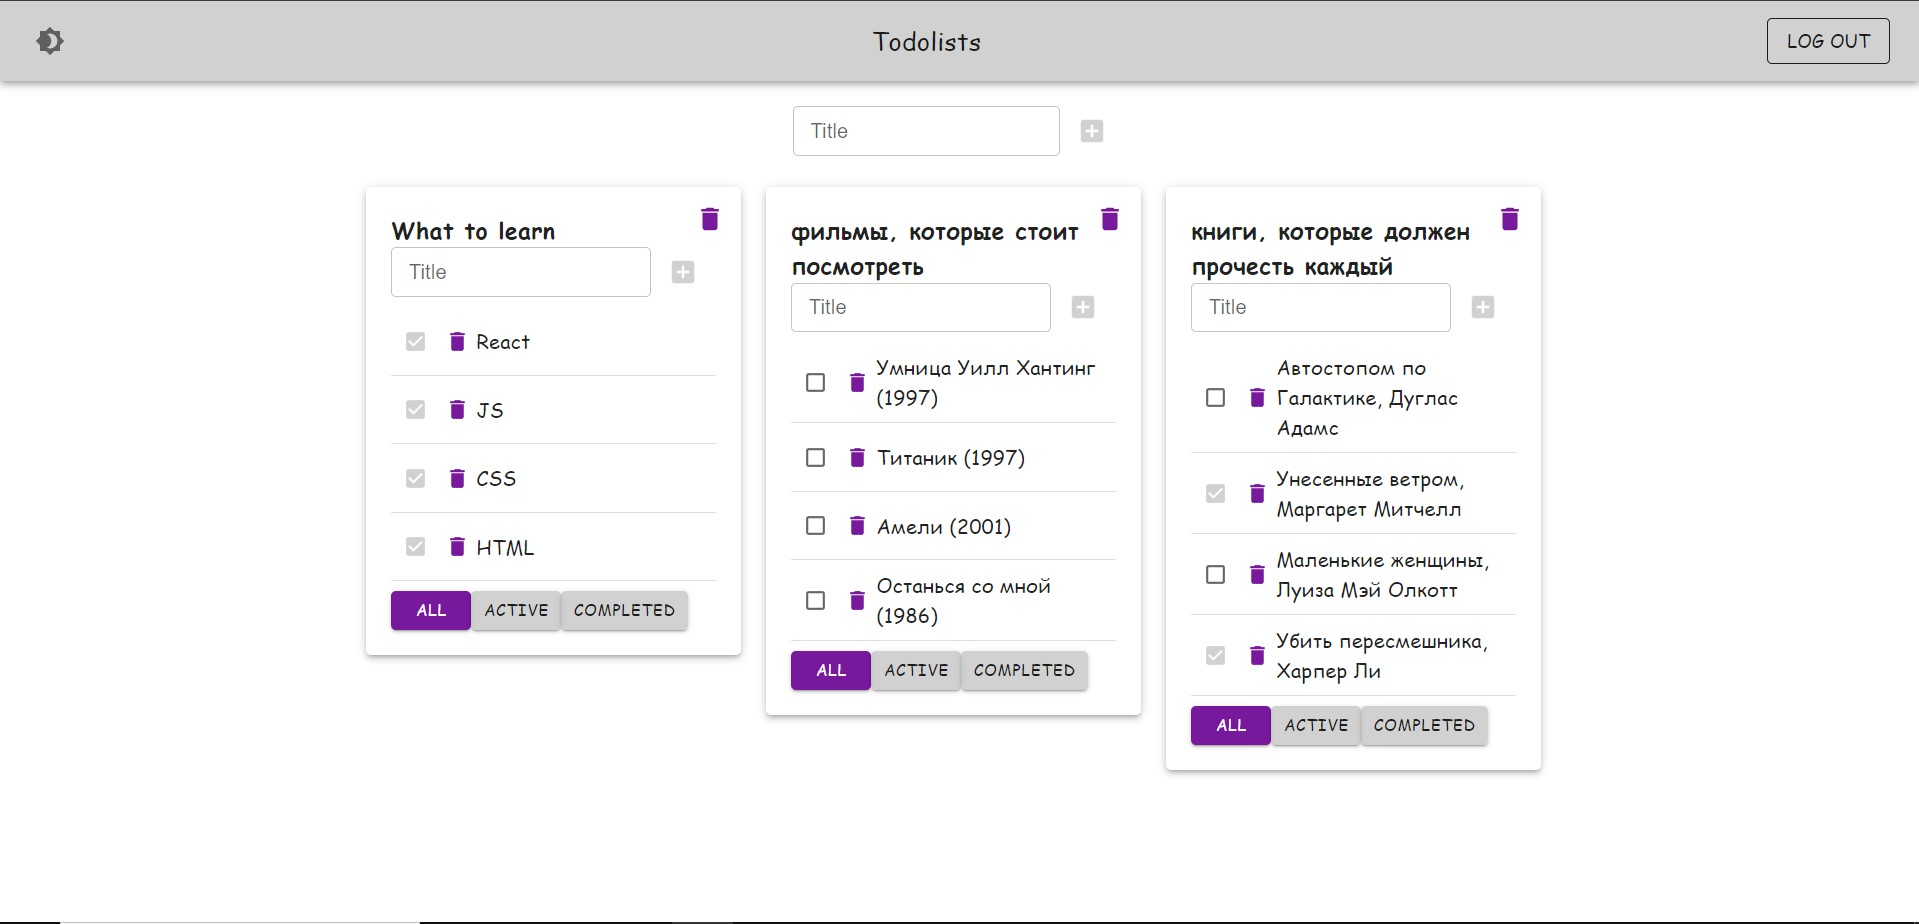
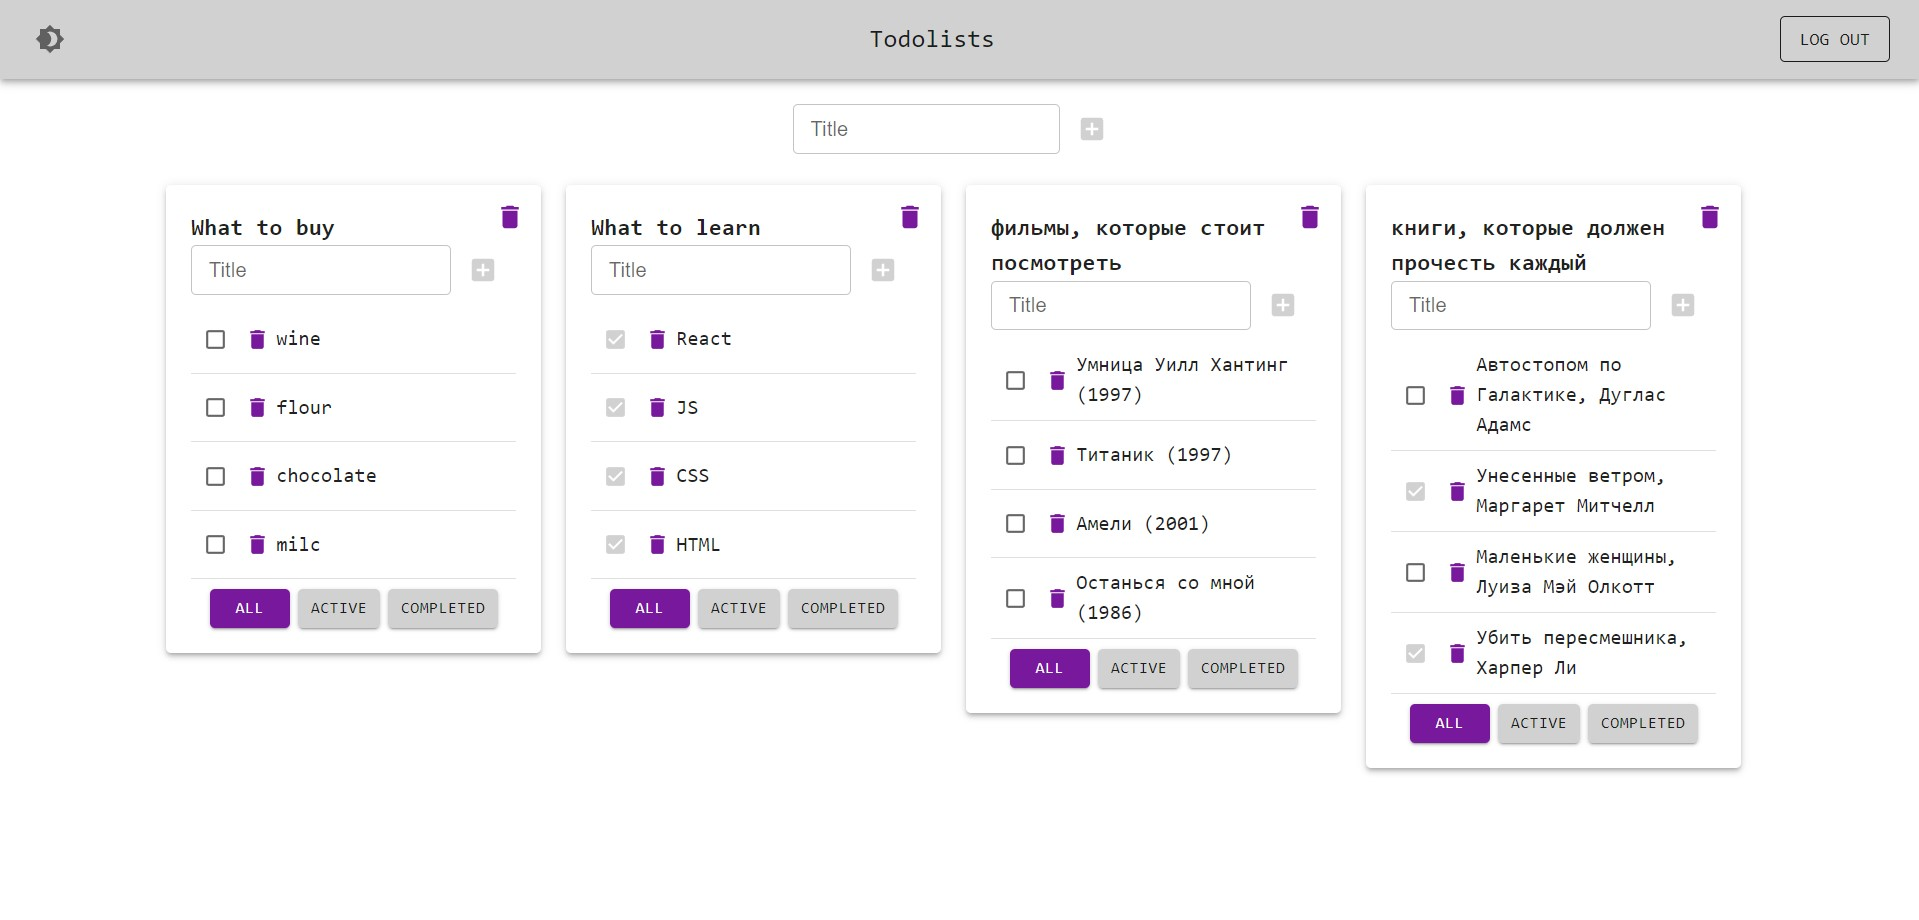
Todolists, update

diff --git a/src/features/Login/Login.tsx b/src/features/Login/Login.tsx
@@ -5,13 +5,13 @@ import FormGroup from '@mui/material/FormGroup';
 import FormLabel from '@mui/material/FormLabel';
 import TextField from '@mui/material/TextField';
 import Button from '@mui/material/Button';
-import { useFormik } from 'formik';
-import { Navigate } from 'react-router-dom';
-import { useAppDispatch, useAppSelector } from '../../common/hooks/hooks';
-import { selectIsLoggedIn } from './authSelectors';
-import { authActions } from './index';
-import { Grid } from "@mui/material";
-import { AnimatedMonster } from "./AnimatedMonster";
+import {useFormik} from 'formik';
+import {Navigate} from 'react-router-dom';
+import {useAppDispatch, useAppSelector} from '../../common/hooks/hooks';
+import {selectIsLoggedIn} from './authSelectors';
+import {authActions} from './index';
+import {Grid} from "@mui/material";
+import {AnimatedMonster} from "./AnimatedMonster";
 
 type FormikErrorType = {
     email?: string;
@@ -22,7 +22,7 @@ type FormikErrorType = {
 export const Login = () => {
     const dispatch = useAppDispatch();
     const isLoggedIn = useAppSelector(selectIsLoggedIn);
-    const { login } = authActions;
+    const {login} = authActions;
 
     const formik = useFormik({
         initialValues: {
@@ -61,13 +61,13 @@ export const Login = () => {
     });
 
     if (isLoggedIn) {
-        return <Navigate to={'/todolist-ts'} />;
+        return <Navigate to={'/todolist-ts'}/>;
     }
 
     return (
         <Grid position='relative'>
             <Grid item xs={4}>
-                <AnimatedMonster formData={formik.values} />
+                <AnimatedMonster formData={formik.values}/>
                 <form onSubmit={formik.handleSubmit}>
                     <FormControl style={{
                         display: 'flex',
@@ -84,7 +84,7 @@ export const Login = () => {
                         zIndex: ' 1',
 
                     }}>
-                        <FormLabel style={{ color: 'inherit', fontFamily: 'Droid Sans, cursive' }}>
+                        <FormLabel style={{color: 'inherit', fontFamily: 'Roboto, monospace'}}>
                             <p>
                                 To log in get registered{" "}
                                 <a href={"https://social-network.samuraijs.com/"} target={"_blank"} rel="noreferrer">
@@ -96,25 +96,30 @@ export const Login = () => {
                             <p>Password: free</p>
                         </FormLabel>
                         <FormGroup>
-                            <TextField label="Email" margin="normal" {...formik.getFieldProps("email")} style={{ fontFamily: 'Droid Sans, cursive' }} />
+                            <TextField label="Email" margin="normal" {...formik.getFieldProps("email")}
+                                       style={{fontFamily: 'Roboto, monospace'}}/>
                             {formik.touched.email && formik.errors.email &&
-                            <div style={{ color: 'red', fontFamily: 'Droid Sans, cursive' }}>{formik.errors.email}</div>}
+                            <div style={{color: 'red', fontFamily: 'Roboto, monospace'}}>{formik.errors.email}</div>}
                             <TextField type="password" label="Password"
-                                       margin="normal" {...formik.getFieldProps("password")} style={{ fontFamily: 'Droid Sans, cursive' }} />
+                                       margin="normal" {...formik.getFieldProps("password")}
+                                       style={{fontFamily: 'Roboto, monospace'}}/>
                             {formik.touched.password && formik.errors.password && (
-                                <div style={{ color: 'red', fontFamily: 'Droid Sans, cursive' }}>{formik.errors.password}</div>
+                                <div style={{
+                                    color: 'red',
+                                    fontFamily: 'Roboto, monospace'
+                                }}>{formik.errors.password}</div>
                             )}
                             <FormControlLabel
                                 label={"Remember me"}
                                 control={<Checkbox {...formik.getFieldProps("rememberMe")}
-                                                   checked={formik.values.rememberMe} />}
+                                                   checked={formik.values.rememberMe}/>}
                             />
                             <Button
                                 type={"submit"}
                                 variant={"contained"}
                                 disabled={!(formik.isValid && formik.dirty)}
                                 color={"primary"}
-                                style={{ fontFamily: 'Droid Sans, cursive' }}
+                                style={{fontFamily: 'Roboto, monospace'}}
                             >
                                 Login
                             </Button>

diff --git a/src/app/App.tsx b/src/app/App.tsx
@@ -4,7 +4,6 @@ import {useActions, useAppSelector} from '../common/hooks/hooks';
 import AppBar from '@mui/material/AppBar';
 import Button from '@mui/material/Button';
 import CircularProgress from '@mui/material/CircularProgress';
-import Container from '@mui/material/Container';
 import CssBaseline from '@mui/material/CssBaseline';
 import IconButton from '@mui/material/IconButton';
 import LinearProgress from '@mui/material/LinearProgress';
@@ -84,14 +83,14 @@ function App({demo = false}: AppPropsType) {
                                 </IconButton>
                             </IconButton>
                             <Typography variant="h6" style={{
-                                fontFamily: 'Droid Sans, cursive'
+                                fontFamily: 'Roboto, monospace'
                             }}>
                                 Todolists
                             </Typography>
                             <div>
                                 {isLoggedIn && (
                                     <Button style={{
-                                        fontFamily: 'Droid Sans, cursive'
+                                        fontFamily: 'Roboto, monospace'
                                     }} color="inherit" variant={'outlined'} onClick={logoutHandler}>Log out</Button>
                                 )}
                             </div>

diff --git a/src/features/TodolistsList/Todolist/Todolist.tsx b/src/features/TodolistsList/Todolist/Todolist.tsx
@@ -59,16 +59,10 @@ export const Todolist: FC<TodolistPropsType> = memo(({todolist, demo = false}) =
                                   disabled={isDisabled}/>)
         : <div style={{padding: '10px', color: '#9c9c9c'}}>No tasks in this list</div>
 
-    /* useEffect(() => {
-         if (demo) {
-             return;
-         }
-         dispatch(fetchTasksTC(todolist.id))
-     }, [dispatch, todolist.id, demo])*/
-
     const renderFilterButton = (title: string, buttonFilter: FilterType) => {
         return <Button style={{
-            fontFamily: 'Droid Sans, cursive'
+            fontFamily: 'Roboto, monospace',
+
         }} size={'small'} variant={'contained'}
                        color={todolist.filter === buttonFilter ? 'secondary' : 'primary'}
                        onClick={() => filterTasksHandler(buttonFilter)}>{title}</Button>
@@ -87,7 +81,12 @@ export const Todolist: FC<TodolistPropsType> = memo(({todolist, demo = false}) =
             <List>
                 {tasksToRender}
             </List>
-            <div>
+            <div style={{
+                display: 'flex',
+                justifyContent: 'center',
+                gap: '7px',
+
+            }}>
                 {renderFilterButton('All', 'all')}
                 {renderFilterButton('Active', 'active')}
                 {renderFilterButton('Completed', 'completed')}

diff --git a/src/index.css b/src/index.css
@@ -14,5 +14,5 @@ code {
 
 * {
     margin: 0;
-    font-family: 'Droid Sans', cursive;
+    font-family: 'Roboto', monospace;
 }
